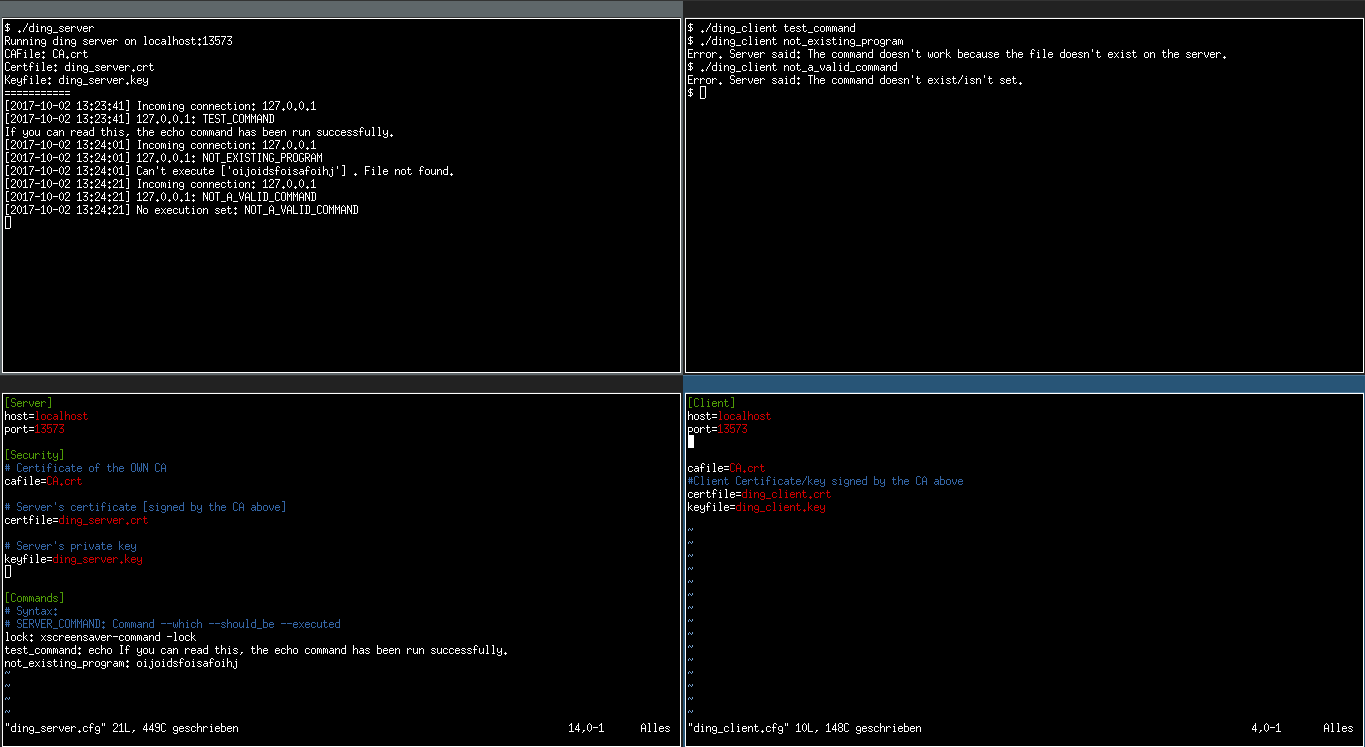
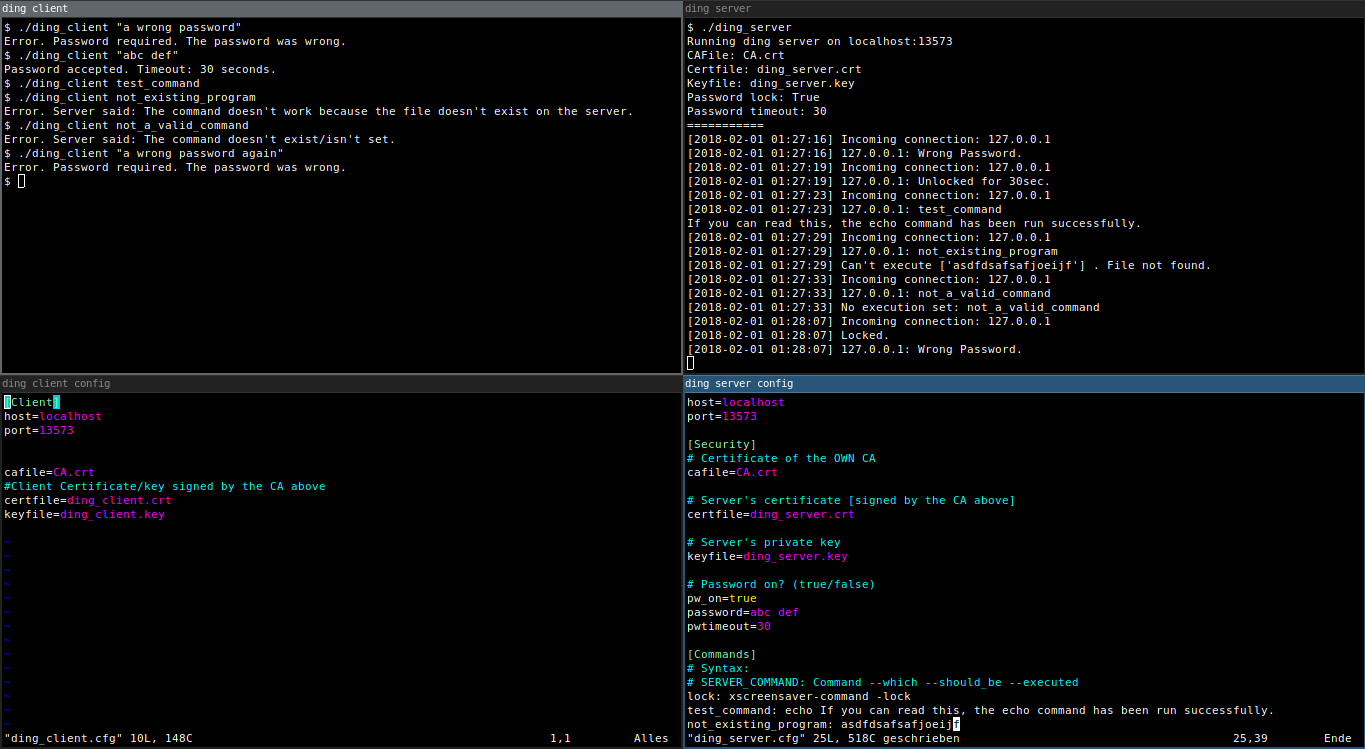
Optional password function added

Changed region(s): [[0.0, 0.0, 1.0, 1.0], [0.0, 0.0, 0.4615, 0.3079], [0.0, 0.4926, 0.2462, 0.8929]]

diff --git a/README.md b/README.md
@@ -9,7 +9,7 @@ The server awaits commands sent by the client. A command must be defined in the 
 The authentication is done by an SSL Client Certificate signed by an (own generated) Certificate Authority. The scripts for generating a CA and signing a Server/Client Certificate are also in here to make it (relatively) easy. [ You need only to press enter in the most cases, type in some certificate information and entering a previously defined CA password. ]
 
 ## Pic or didn't happen
-![Screenshot of CircleArt](/img/dingScreenshot.png)
+![Screenshot of ding](/img/dingScreenshot.png)
 [Can't read a thing?](https://raw.githubusercontent.com/Bandie/ding/master/img/dingScreenshot.png)
 
 ## Installation
@@ -23,4 +23,14 @@ In all steps please read carefully what the certification generate scripts want 
 6. Start the server using `./ding_server`. You may want to put this in a tmux session ([Ctrl+B, D] ;) ).
 7. Try out the client using `./ding_client <command>`.
 
+## Optional: Cleartext password with timeout
+If you want to be sure that the ability of the remote connection won't be abused by bad people using your computer, you may want to add a password. 
 
+To do so:
+
+1. Open your `ding_server.cfg`.
+2. Set `pw_on=true`.
+3. Set a password, like `password=abc def`.
+4. Set a password timeout: `pwtimeout=10` for 10 seconds.
+
+If you have a password with special characters like spaces or something else, you might want to embrace the password in quotation marks, like `./ding_client "abc def"`.
